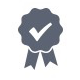
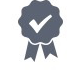
Wizard sidebar update

Changed region(s): [[0.225, 0.0, 0.8, 0.875]]

diff --git a/App/PluginWeb/EzBob.Web/Content/css/sidebar.css b/App/PluginWeb/EzBob.Web/Content/css/sidebar.css
@@ -25,7 +25,7 @@ div.customer-sidebar-content div.item div.icon {
 }
 
 div.customer-sidebar-content div.item div.icon img.sb-icon {
-	margin-top: 19px;
+	margin-top: 6px;
 	width: 32px;
 	height: 32px;
 	border: 0;
@@ -43,7 +43,6 @@ div.customer-sidebar-content div.item div.text h3 {
 	font-weight: bold;
 	font-size: 1.2em;
 	margin: 0 0 0.1em 0;
-	margin-left: -13px;
 }
 
 div.customer-sidebar-content div.item-security-seals div.verisign {

diff --git a/Tools/EzbobUtils/DbConnection/ExtractedValue/DbValue.cs b/Tools/EzbobUtils/DbConnection/ExtractedValue/DbValue.cs
@@ -1,0 +1,46 @@
+namespace Ezbob.Database.ExtractedValue {
+	using System;
+	using System.Reflection;
+
+	#region class DbValue
+
+	public class DbValue<T> : ADbValue {
+		#region public
+
+		#region constructor
+
+		public DbValue(object oVal) : this(oVal, default (T)) {} // constructor
+
+		public DbValue(object oVal, T oDefault) {
+			HasValue = false;
+
+			try {
+				m_oValue = (T)typeof (T).GetMethod("parse", BindingFlags.Public | BindingFlags.Static).Invoke(null, new object[] { oVal });
+				HasValue = true;
+			}
+			catch (Exception) {
+				m_oValue = oDefault;
+			} // try
+		} // constructor
+
+		#endregion constructor
+
+		public static implicit operator T(DbValue<T> oValue) { return oValue.m_oValue; } // operator T
+
+		public virtual Type ValueType {
+			get { return typeof (T); }
+		} // ValueType
+
+		public override bool HasValue { get; protected set; } // HasValue
+
+		#endregion public
+
+		#region private
+
+		private readonly T m_oValue;
+
+		#endregion private
+	} // class DbValue
+
+	#endregion class DbValue
+} // namespace Ezbob.Database.ExtractedValue

diff --git a/App/ezmanage/FakeAppCreator.cs b/App/ezmanage/FakeAppCreator.cs
@@ -53,7 +53,7 @@
             
         }
 
-		public void Evaluate(int underwriterId, User user, NewCreditLineOption runNewCreditLine, int avoidAutomaticDescison, bool isUnderwriterForced, bool isSync)
+        public void Evaluate(int underwriterId, User user, NewCreditLineOption runNewCreditLine, int avoidAutomaticDescison, bool isUnderwriterForced = false, bool isSync = false)
 		{
 		}
 

diff --git a/Tools/EzbobUtils/DbConnection/ExtractedValue/ADbValue.cs b/Tools/EzbobUtils/DbConnection/ExtractedValue/ADbValue.cs
@@ -1,0 +1,13 @@
+namespace Ezbob.Database.ExtractedValue {
+	#region class ADbValue
+
+	public abstract class ADbValue {
+		#region public
+
+		public abstract bool HasValue { get; protected set; } // HasValue
+
+		#endregion public
+	} // class ADbValue
+
+	#endregion class ADbValue
+} // namespace Ezbob.Database.ExtractedValue
